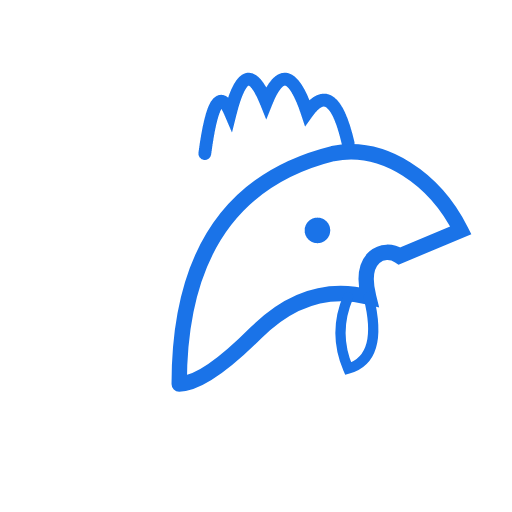
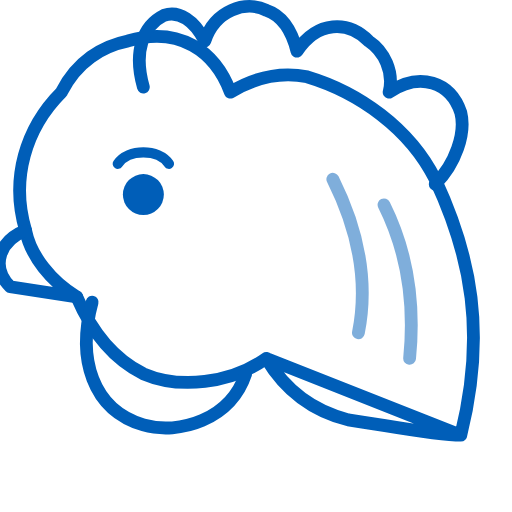
feat: update PWA and loader with new slh-rooster-outline SVG
- Replace the previous breeder-head SVG with the new `slh-rooster-outline` SVG in `base_tabler.html`, `index_modern.html`, and `offline.html`.
- Retain `.comb-path` and `.profile-path` classes on the new SVG paths to preserve the animated drawing effect during loading states.
- Generate and replace `static/icon-192.png` and `static/icon-512.png` using the new SVG to ensure the PWA installation icon matches the updated branding.

Changed region(s): [[0.0, 0.0, 0.9375, 0.875], [0.2188, 0.2812, 0.3438, 0.4375]]

diff --git a/templates/offline.html b/templates/offline.html
@@ -32,15 +32,52 @@
       <div class="container-tight py-4">
         <div class="empty">
           <div class="empty-icon mb-4">
-            <svg width="120" height="120" viewBox="0 0 100 100" class="breeder-head-svg">
-                <path d="M40,30 Q42,15 45,22 Q48,10 52,20 Q56,10 60,22 Q65,15 68,28"
-                      fill="none" stroke="currentColor" stroke-width="2.5" stroke-linecap="round" class="comb-path"/>
-                <path d="M35,75 C35,50 45,35 65,30 C75,28 85,35 90,45 L78,50 C75,48 70,50 72,58 Q60,55 50,65 Q40,75 35,75"
-                      fill="none" stroke="currentColor" stroke-width="3" stroke-linecap="round" class="profile-path"/>
-                <path d="M72,58 Q75,70 68,72 Q65,65 68,58"
-                      fill="none" stroke="currentColor" stroke-width="2" stroke-linecap="round" class="wattle-path"/>
-                <circle cx="62" cy="45" r="2.5" fill="currentColor" />
-            </svg>
+            <svg xmlns="http://www.w3.org/2000/svg" width="120" height="120" viewBox="0 0 100 100" class="breeder-head-svg slh-rooster-outline">
+  <g fill="none" stroke="currentColor" stroke-width="2.5" stroke-linecap="round" stroke-linejoin="round">
+    <path class="profile-path" d="
+      M 90,85
+      C 95,65 92,50 85,35
+      C 80,25 70,18 60,15
+      C 55,14 50,15 45,18
+      M 45,18
+      C 42,10 35,5 25,8
+      C 20,9 15,12 12,18
+      M 12,18
+      C 5,25 2,35 5,45
+      C 6,50 10,55 15,58
+      M 15,58
+      C 18,65 22,70 28,73
+      C 35,76 45,75 52,70
+      M 52,70
+      C 55,75 60,80 68,82
+      C 75,83 85,85 90,85
+      Z" />
+
+    <path class="comb-path" d="
+      M 28,17
+      C 26,10 28,5 32,3
+      C 35,2 38,4 40,8
+      M 40,8
+      C 42,2 48,0 52,2
+      C 55,3 57,6 58,10
+      M 58,10
+      C 62,4 68,4 72,8
+      C 75,10 77,14 76,18
+      M 76,18
+      C 82,14 88,16 90,22
+      C 91,26 89,32 85,36" />
+
+    <path class="wattle-path" d="M 5,45 C 0,47 -2,52 2,56 L 15,58" />
+
+    <path class="wattle-path" d="M 18,59 C 15,70 18,80 28,83 C 35,85 45,82 48,73" />
+
+    <circle cx="28" cy="38" r="4" fill="currentColor" stroke="none"/>
+    <path d="M 23,32 C 25,29 31,29 33,32" stroke-width="2"/>
+
+    <path class="profile-path" d="M 65,35 C 70,45 72,55 70,65" stroke-opacity="0.5"/>
+    <path class="profile-path" d="M 75,40 C 80,50 81,60 80,70" stroke-opacity="0.5"/>
+  </g>
+</svg>
           </div>
           <p class="empty-title h3 mb-2">Offline Mode</p>
           <p class="empty-subtitle text-muted mb-4 px-3" style="max-width: 400px; text-align: center;">

diff --git a/templates/base_tabler.html b/templates/base_tabler.html
@@ -152,15 +152,52 @@
   <body>
     <div id="loading-overlay" class="loader-overlay" style="display:none;">
         <div class="chicken-loader">
-            <svg width="120" height="120" viewBox="0 0 100 100" class="breeder-head-svg">
-                <path d="M40,30 Q42,15 45,22 Q48,10 52,20 Q56,10 60,22 Q65,15 68,28"
-                      fill="none" stroke="currentColor" stroke-width="2.5" stroke-linecap="round" class="comb-path"/>
-                <path d="M35,75 C35,50 45,35 65,30 C75,28 85,35 90,45 L78,50 C75,48 70,50 72,58 Q60,55 50,65 Q40,75 35,75"
-                      fill="none" stroke="currentColor" stroke-width="3" stroke-linecap="round" class="profile-path"/>
-                <path d="M72,58 Q75,70 68,72 Q65,65 68,58"
-                      fill="none" stroke="currentColor" stroke-width="2" stroke-linecap="round" class="wattle-path"/>
-                <circle cx="62" cy="45" r="2.5" fill="currentColor" />
-            </svg>
+            <svg xmlns="http://www.w3.org/2000/svg" width="120" height="120" viewBox="0 0 100 100" class="breeder-head-svg slh-rooster-outline">
+  <g fill="none" stroke="currentColor" stroke-width="2.5" stroke-linecap="round" stroke-linejoin="round">
+    <path class="profile-path" d="
+      M 90,85
+      C 95,65 92,50 85,35
+      C 80,25 70,18 60,15
+      C 55,14 50,15 45,18
+      M 45,18
+      C 42,10 35,5 25,8
+      C 20,9 15,12 12,18
+      M 12,18
+      C 5,25 2,35 5,45
+      C 6,50 10,55 15,58
+      M 15,58
+      C 18,65 22,70 28,73
+      C 35,76 45,75 52,70
+      M 52,70
+      C 55,75 60,80 68,82
+      C 75,83 85,85 90,85
+      Z" />
+
+    <path class="comb-path" d="
+      M 28,17
+      C 26,10 28,5 32,3
+      C 35,2 38,4 40,8
+      M 40,8
+      C 42,2 48,0 52,2
+      C 55,3 57,6 58,10
+      M 58,10
+      C 62,4 68,4 72,8
+      C 75,10 77,14 76,18
+      M 76,18
+      C 82,14 88,16 90,22
+      C 91,26 89,32 85,36" />
+
+    <path class="wattle-path" d="M 5,45 C 0,47 -2,52 2,56 L 15,58" />
+
+    <path class="wattle-path" d="M 18,59 C 15,70 18,80 28,83 C 35,85 45,82 48,73" />
+
+    <circle cx="28" cy="38" r="4" fill="currentColor" stroke="none"/>
+    <path d="M 23,32 C 25,29 31,29 33,32" stroke-width="2"/>
+
+    <path class="profile-path" d="M 65,35 C 70,45 72,55 70,65" stroke-opacity="0.5"/>
+    <path class="profile-path" d="M 75,40 C 80,50 81,60 80,70" stroke-opacity="0.5"/>
+  </g>
+</svg>
             <p class="loader-text">Processing...</p>
         </div>
     </div>

diff --git a/templates/index_modern.html b/templates/index_modern.html
@@ -459,15 +459,52 @@
 
 <div id="reportGenerationOverlay" class="loader-overlay" style="display:none;">
     <div class="chicken-loader">
-        <svg width="120" height="120" viewBox="0 0 100 100" class="breeder-head-svg">
-            <path d="M40,30 Q42,15 45,22 Q48,10 52,20 Q56,10 60,22 Q65,15 68,28"
-                  fill="none" stroke="currentColor" stroke-width="2.5" stroke-linecap="round" class="comb-path"/>
-            <path d="M35,75 C35,50 45,35 65,30 C75,28 85,35 90,45 L78,50 C75,48 70,50 72,58 Q60,55 50,65 Q40,75 35,75"
-                  fill="none" stroke="currentColor" stroke-width="3" stroke-linecap="round" class="profile-path"/>
-            <path d="M72,58 Q75,70 68,72 Q65,65 68,58"
-                  fill="none" stroke="currentColor" stroke-width="2" stroke-linecap="round" class="wattle-path"/>
-            <circle cx="62" cy="45" r="2.5" fill="currentColor" />
-        </svg>
+        <svg xmlns="http://www.w3.org/2000/svg" width="120" height="120" viewBox="0 0 100 100" class="breeder-head-svg slh-rooster-outline">
+  <g fill="none" stroke="currentColor" stroke-width="2.5" stroke-linecap="round" stroke-linejoin="round">
+    <path class="profile-path" d="
+      M 90,85
+      C 95,65 92,50 85,35
+      C 80,25 70,18 60,15
+      C 55,14 50,15 45,18
+      M 45,18
+      C 42,10 35,5 25,8
+      C 20,9 15,12 12,18
+      M 12,18
+      C 5,25 2,35 5,45
+      C 6,50 10,55 15,58
+      M 15,58
+      C 18,65 22,70 28,73
+      C 35,76 45,75 52,70
+      M 52,70
+      C 55,75 60,80 68,82
+      C 75,83 85,85 90,85
+      Z" />
+
+    <path class="comb-path" d="
+      M 28,17
+      C 26,10 28,5 32,3
+      C 35,2 38,4 40,8
+      M 40,8
+      C 42,2 48,0 52,2
+      C 55,3 57,6 58,10
+      M 58,10
+      C 62,4 68,4 72,8
+      C 75,10 77,14 76,18
+      M 76,18
+      C 82,14 88,16 90,22
+      C 91,26 89,32 85,36" />
+
+    <path class="wattle-path" d="M 5,45 C 0,47 -2,52 2,56 L 15,58" />
+
+    <path class="wattle-path" d="M 18,59 C 15,70 18,80 28,83 C 35,85 45,82 48,73" />
+
+    <circle cx="28" cy="38" r="4" fill="currentColor" stroke="none"/>
+    <path d="M 23,32 C 25,29 31,29 33,32" stroke-width="2"/>
+
+    <path class="profile-path" d="M 65,35 C 70,45 72,55 70,65" stroke-opacity="0.5"/>
+    <path class="profile-path" d="M 75,40 C 80,50 81,60 80,70" stroke-opacity="0.5"/>
+  </g>
+</svg>
         <p class="loader-text" id="reportGenerationStatus">Initializing...</p>
     </div>
 </div>
